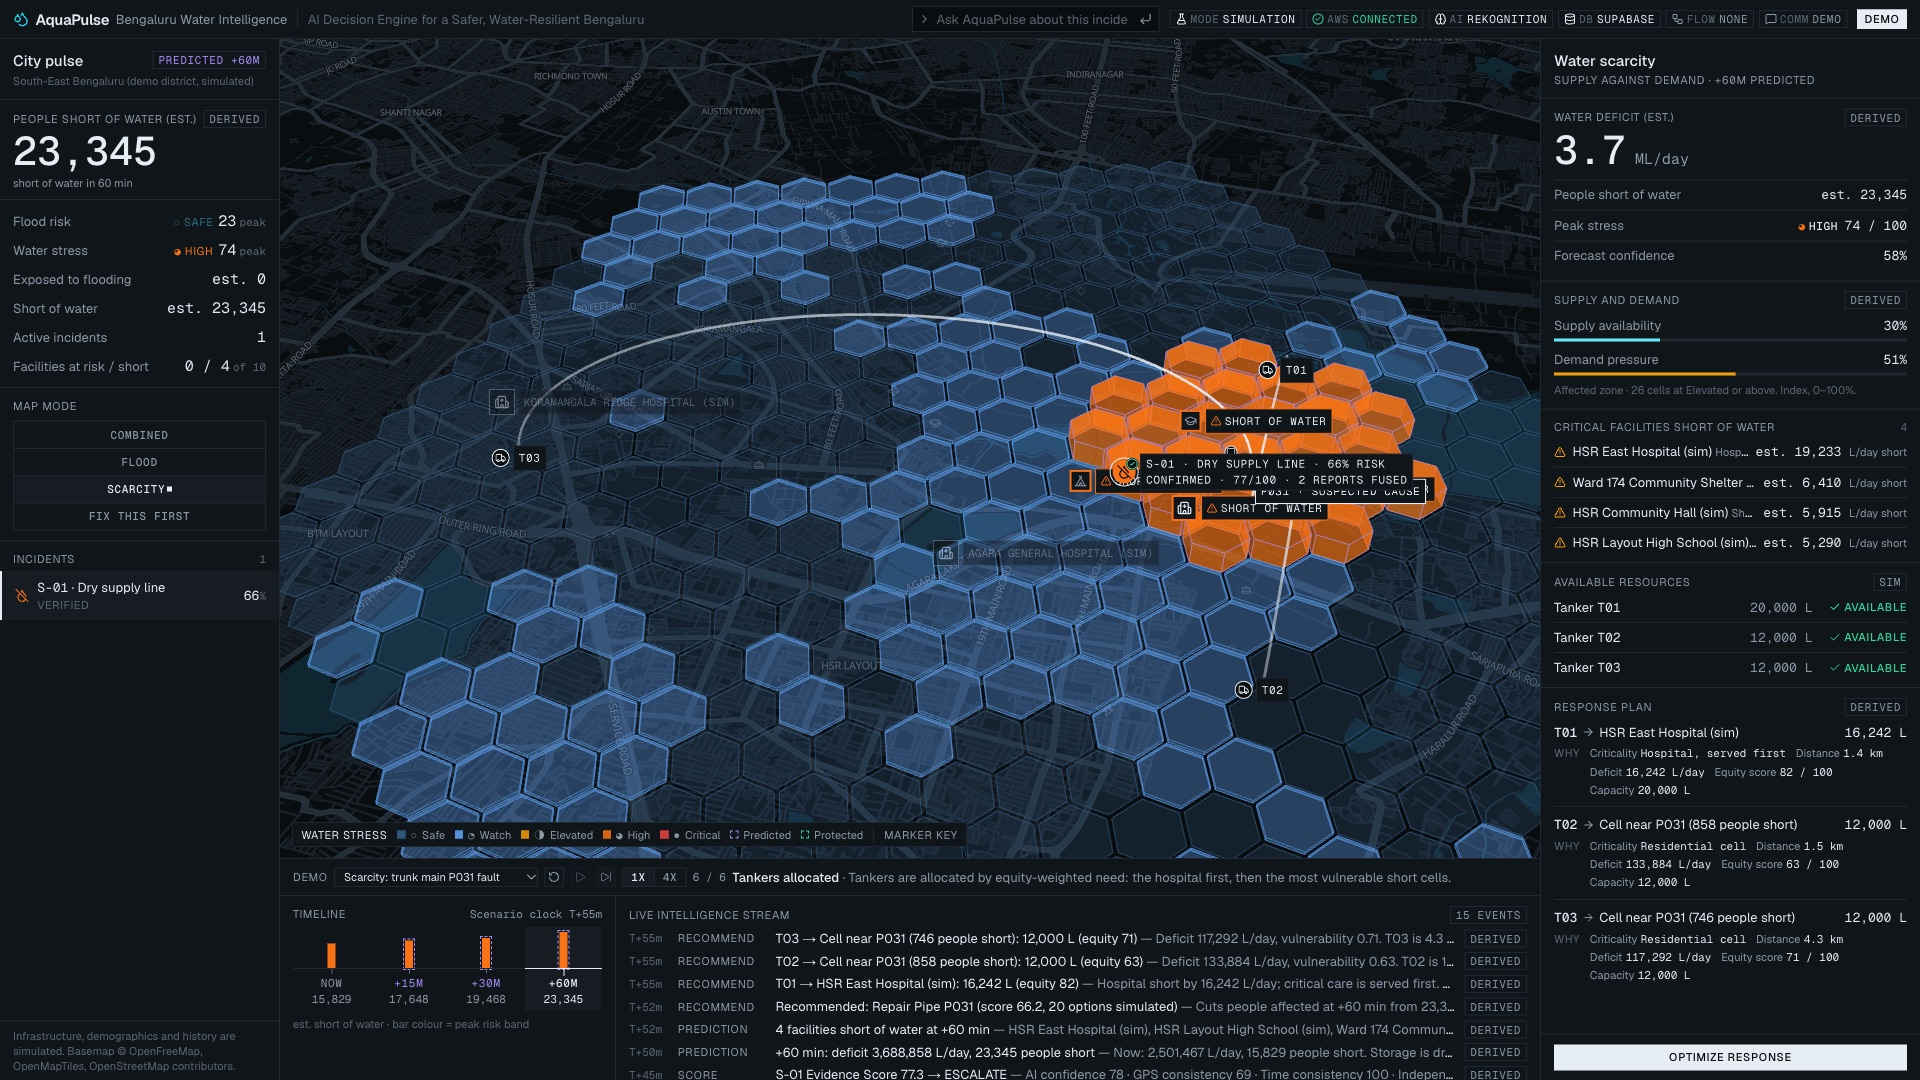
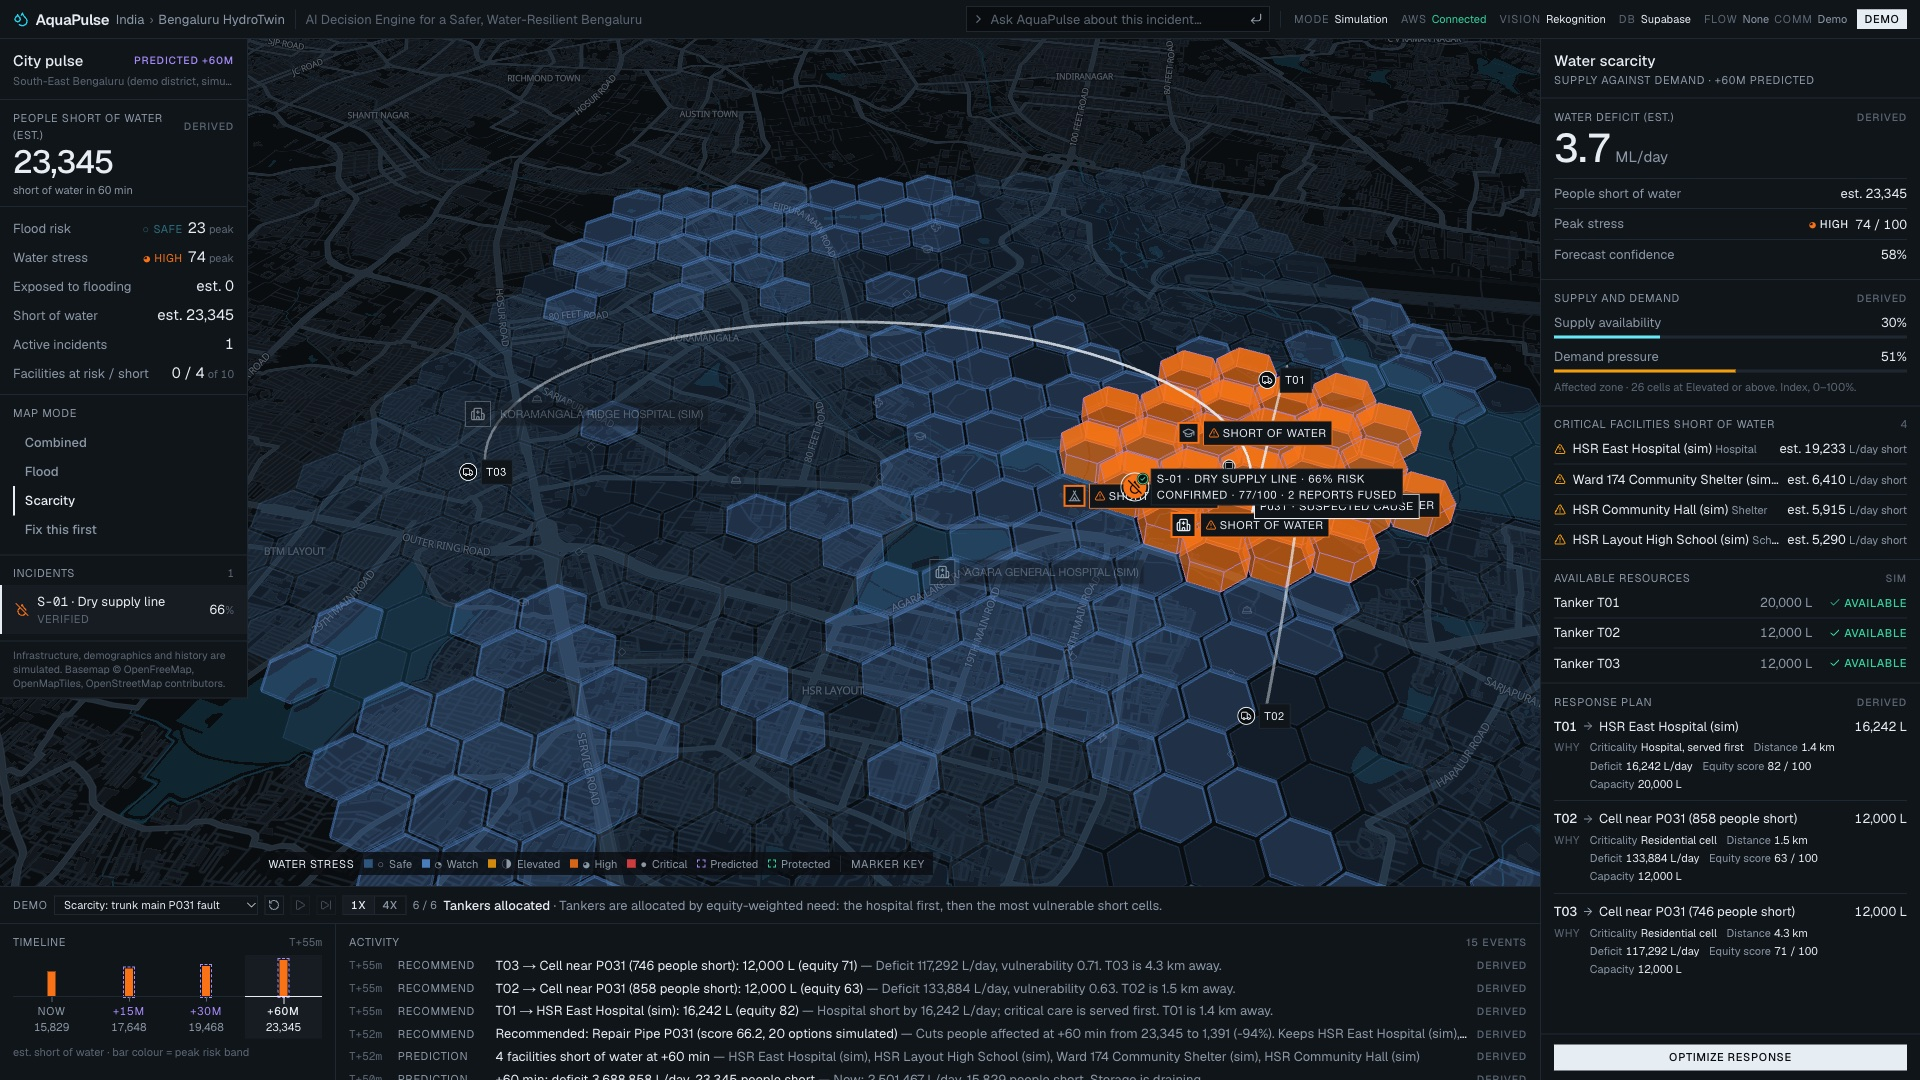
feat: landing page with live national figures and real product captures; command center at /live

diff --git a/components/Landing.tsx b/components/Landing.tsx
@@ -1,0 +1,174 @@
+import Image from "next/image";
+import Link from "next/link";
+import type { NationalSnapshot } from "@/lib/national/store";
+
+const ist = (iso: string | null | undefined) =>
+  iso ? new Intl.DateTimeFormat("en-IN", { timeZone: "Asia/Kolkata", hour: "2-digit", minute: "2-digit", hour12: false, day: "2-digit", month: "short" }).format(new Date(iso)) + " IST" : null;
+
+function Shot({ src, alt, priority = false }: { src: string; alt: string; priority?: boolean }) {
+  return <Image src={`/landing/${src}.jpg`} alt={alt} width={1600} height={900} priority={priority} sizes="(min-width: 1024px) 60vw, 100vw" className="block h-auto w-full border border-hairline" />;
+}
+
+function Chapter({ n, kicker, title, children, shot, alt, flip = false }: { n: string; kicker: string; title: string; children: React.ReactNode; shot: string; alt: string; flip?: boolean }) {
+  return (
+    <section className="border-t border-hairline">
+      <div className={`mx-auto grid max-w-[1400px] gap-8 px-5 py-16 lg:grid-cols-12 lg:gap-12 lg:px-10 lg:py-24`}>
+        <div className={`lg:col-span-4 ${flip ? "lg:order-2" : ""}`}>
+          <p className="mono text-[11px] text-faint">{n}</p>
+          <p className="mt-6 text-[11px] uppercase tracking-[0.12em] text-muted">{kicker}</p>
+          <h2 className="mt-3 text-[28px] font-medium leading-[1.15] tracking-tight text-ink lg:text-[36px]">{title}</h2>
+          <div className="mt-5 space-y-4 text-[15px] leading-relaxed text-muted">{children}</div>
+        </div>
+        <div className={`lg:col-span-8 ${flip ? "lg:order-1" : ""}`}>
+          <Shot src={shot} alt={alt} />
+        </div>
+      </div>
+    </section>
+  );
+}
+
+/** Public landing page. Server-rendered; every figure is read from the live national snapshot or the engine's tested output. */
+export function Landing({ snapshot }: { snapshot: NationalSnapshot | null }) {
+  const s = snapshot?.summary;
+  const updated = ist(snapshot?.source.lastSuccessAt);
+  return (
+    <div className="h-full overflow-y-auto bg-surface text-ink">
+      <header className="mx-auto flex max-w-[1400px] items-center justify-between px-5 py-5 lg:px-10">
+        <p className="text-[15px] font-semibold tracking-tight">AquaPulse</p>
+        <nav className="flex items-center gap-6 text-[13px] text-muted">
+          <a href="#how" className="hidden hover:text-ink sm:block">How it works</a>
+          <a href="#real" className="hidden hover:text-ink sm:block">What is real</a>
+          <Link href="/live" className="text-ink underline underline-offset-4">Open live command center</Link>
+        </nav>
+      </header>
+
+      <section className="mx-auto grid max-w-[1400px] gap-10 px-5 pb-16 pt-8 lg:grid-cols-12 lg:gap-12 lg:px-10 lg:pb-24 lg:pt-16">
+        <div className="lg:col-span-5">
+          <h1 className="text-[44px] font-medium leading-[1.02] tracking-tight lg:text-[72px]">India’s water intelligence layer.</h1>
+          <p className="mt-8 text-[20px] leading-snug text-muted lg:text-[24px]">
+            See where risk is rising.
+            <br />
+            Understand what happens next.
+            <br />
+            Act before impact.
+          </p>
+          <div className="mt-10 flex flex-wrap items-center gap-x-8 gap-y-4 text-[15px]">
+            <Link href="/live" className="bg-ink px-5 py-3 font-medium text-surface hover:bg-white">Open live command center</Link>
+            <a href="#how" className="text-muted underline underline-offset-4 hover:text-ink">Explore how it works</a>
+          </div>
+          {s && (
+            <dl className="mt-14 grid grid-cols-3 gap-6 border-t border-hairline pt-6">
+              <div>
+                <dt className="text-[11px] uppercase tracking-[0.1em] text-faint">Districts under a water-related alert</dt>
+                <dd className="tabular mt-2 text-[32px] font-medium leading-none">{s.districtsUnderWaterAlert}</dd>
+              </div>
+              <div>
+                <dt className="text-[11px] uppercase tracking-[0.1em] text-faint">Flood and river alerts</dt>
+                <dd className="tabular mt-2 text-[32px] font-medium leading-none">{s.floodAlerts}</dd>
+              </div>
+              <div>
+                <dt className="text-[11px] uppercase tracking-[0.1em] text-faint">States with active alerts</dt>
+                <dd className="tabular mt-2 text-[32px] font-medium leading-none">{s.statesWithAlerts}</dd>
+              </div>
+              <p className="col-span-3 text-[11px] leading-snug text-faint">
+                Official alerts from NDMA SACHET{updated ? `, last synced ${updated}` : ""}. Read from the same database as the command center.
+              </p>
+            </dl>
+          )}
+        </div>
+        <div className="lg:col-span-7">
+          <Shot src="01-india" alt="AquaPulse national view: a district map of India with districts under official flood alerts highlighted" priority />
+          <p className="mt-3 text-[11px] text-faint">The live national view. Coloured districts hold an active water-related official alert.</p>
+        </div>
+      </section>
+
+      <section id="how" className="border-t border-hairline">
+        <div className="mx-auto max-w-[1400px] px-5 py-16 lg:px-10 lg:py-24">
+          <p className="max-w-[900px] text-[28px] font-medium leading-[1.2] tracking-tight lg:text-[44px]">
+            Most systems tell you what happened. <span className="text-muted">AquaPulse asks what happens next, who is affected, and which action changes the outcome.</span>
+          </p>
+        </div>
+      </section>
+
+      <Chapter n="01" kicker="National awareness" title="Official alerts, on one district map." shot="02-district" alt="District panel for Muzaffarpur showing an official CWC flood alert, the derived risk score, and inputs that are unknown">
+        <p>AquaPulse ingests India’s national alert feed, NDMA SACHET, which carries warnings issued by IMD offices, the Central Water Commission and state authorities.</p>
+        <p>Each district shows a derived risk score and exactly what it rests on. Inputs that are not connected are shown as unknown, never as zero.</p>
+      </Chapter>
+
+      <Chapter n="02" kicker="Ground truth" title="Reports are evidence, not pins." shot="03-evidence" alt="Evidence panel: three citizen reports fused into one incident with a score history of 52, 64, 68, 76" flip>
+        <p>Citizen reports are fused into one incident and scored on eight named components: independent confirmations, location and time consistency, weather, infrastructure history and more.</p>
+        <p>A photo goes through AWS Lambda to Amazon Rekognition. A single unsupported report stays unverified; in our test it scores 14 out of 100 and nothing escalates.</p>
+      </Chapter>
+
+      <Chapter n="03" kicker="Prediction" title="Thirty minutes ahead, the water reaches the hospital." shot="04-critical-flood" alt="Local HydroTwin of Bengaluru: flood risk cells turning critical with a hospital flagged at risk">
+        <p>Where a local HydroTwin exists, AquaPulse predicts cell by cell: now, +15, +30 and +60 minutes, with confidence that falls as the horizon grows.</p>
+        <p>The first HydroTwin covers south-east Bengaluru. Its city data is a labelled simulation, so the scenario is reproducible.</p>
+      </Chapter>
+
+      <Chapter n="04" kicker="Decision" title="3,822 people exposed. Or 190." shot="05-intervention" alt="Intervention simulator ranking three action bundles; the winner cuts estimated exposure from 3,822 to 190 and protects the hospital" flip>
+        <p>Twenty feasible action bundles are simulated and ranked on people protected, critical facilities, equity, cost and response time.</p>
+        <p>Clearing drain D104 and deploying one pump cuts estimated exposure by 95% and moves the hospital from at risk to protected. The map changes as you compare options, and the ranking shows its arithmetic.</p>
+      </Chapter>
+
+      <Chapter n="05" kicker="Both sides of water" title="Too much, and too little." shot="06-scarcity" alt="Scarcity view: a supply deficit of 3.7 megalitres per day with tanker routes allocated to a hospital first">
+        <p>The same engine handles shortage. A trunk main fails in a heat spell; the deficit grows to 3.7 megalitres a day; tankers are allocated by equity-weighted need, hospital first.</p>
+      </Chapter>
+
+      <Chapter n="06" kicker="Learning" title="What should the city fix for good?" shot="07-fix-this-first" alt="Fix This First: infrastructure ranked by repeat failure, with drain D104 as priority one" flip>
+        <p>Every intervention is checked against its prediction, and every failure is added to the asset’s memory. The result is a ranked list of what to repair permanently, not just today.</p>
+      </Chapter>
+
+      <section id="real" className="border-t border-hairline">
+        <div className="mx-auto grid max-w-[1400px] gap-10 px-5 py-16 lg:grid-cols-12 lg:px-10 lg:py-24">
+          <div className="lg:col-span-4">
+            <p className="text-[11px] uppercase tracking-[0.12em] text-muted">What is real</p>
+            <h2 className="mt-3 text-[28px] font-medium leading-[1.15] tracking-tight lg:text-[36px]">We label everything.</h2>
+          </div>
+          <div className="grid gap-10 text-[15px] leading-relaxed sm:grid-cols-3 lg:col-span-8">
+            <div>
+              <h3 className="border-b border-hairline pb-2 text-[11px] uppercase tracking-[0.12em] text-ink">Live</h3>
+              <ul className="mt-3 space-y-2 text-muted">
+                <li>Official alerts: NDMA SACHET</li>
+                <li>Photo analysis: AWS Lambda and Amazon Rekognition, logged in CloudWatch</li>
+                <li>Storage: Supabase Postgres with PostGIS</li>
+                <li>Inbound reports reach the dashboard within seconds</li>
+              </ul>
+            </div>
+            <div>
+              <h3 className="border-b border-hairline pb-2 text-[11px] uppercase tracking-[0.12em] text-ink">Simulated, and labelled</h3>
+              <ul className="mt-3 space-y-2 text-muted">
+                <li>Bengaluru infrastructure, populations and failure history</li>
+                <li>The flood, scarcity and false-report scenarios</li>
+                <li>Observed intervention outcomes</li>
+              </ul>
+            </div>
+            <div>
+              <h3 className="border-b border-hairline pb-2 text-[11px] uppercase tracking-[0.12em] text-ink">Not connected yet</h3>
+              <ul className="mt-3 space-y-2 text-muted">
+                <li>Rainfall, river gauge and heat feeds</li>
+                <li>WhatsApp through Twilio, and n8n orchestration</li>
+                <li>Amazon Bedrock: answers are grounded templates, not a language model</li>
+              </ul>
+            </div>
+          </div>
+        </div>
+      </section>
+
+      <section className="border-t border-hairline">
+        <div className="mx-auto flex max-w-[1400px] flex-col items-start gap-8 px-5 py-20 lg:flex-row lg:items-end lg:justify-between lg:px-10 lg:py-28">
+          <p className="max-w-[760px] text-[32px] font-medium leading-[1.1] tracking-tight lg:text-[52px]">National observation. Local intelligence. Decisions you can check.</p>
+          <div className="flex flex-col gap-3 text-[15px]">
+            <Link href="/live" className="bg-ink px-5 py-3 text-center font-medium text-surface hover:bg-white">Open live command center</Link>
+            <Link href="/?demo=1&scenario=flood" className="text-muted underline underline-offset-4 hover:text-ink">Play the Bengaluru flood scenario</Link>
+          </div>
+        </div>
+      </section>
+
+      <footer className="border-t border-hairline">
+        <p className="mx-auto max-w-[1400px] px-5 py-8 text-[11px] leading-relaxed text-faint lg:px-10">
+          Alerts: NDMA SACHET (Common Alerting Protocol). Boundaries: geoBoundaries (ODbL 1.0, CC BY 2.5 IN). Basemap: OpenFreeMap, OpenMapTiles, OpenStreetMap contributors. AquaPulse is a hackathon project and is not affiliated with or endorsed by NDMA, IMD, CWC or any government body. The AquaPulse water risk score is our own derived estimate.
+        </p>
+      </footer>
+    </div>
+  );
+}

diff --git a/app/page.tsx b/app/page.tsx
@@ -1,5 +1,23 @@
+import { Suspense } from "react";
+import { connection } from "next/server";
 import { App } from "@/components/App";
+import { Landing } from "@/components/Landing";
+import { nationalSnapshot } from "@/lib/national/store";
 
-export default function Home() {
-  return <App />;
+// `/` is the landing page. Links that carry ?demo, ?scenario or ?view keep opening the command center directly,
+// so existing demo URLs still work. The live command center itself is at /live.
+async function Entry({ searchParams }: { searchParams: PageProps<"/">["searchParams"] }) {
+  await connection(); // request-time: depends on the query string and on live national figures
+  const q = await searchParams;
+  if (q.demo || q.scenario || q.view) return <App />;
+  const snapshot = await nationalSnapshot().catch(() => null);
+  return <Landing snapshot={snapshot} />;
+}
+
+export default function Home({ searchParams }: PageProps<"/">) {
+  return (
+    <Suspense fallback={<div className="h-full bg-surface" />}>
+      <Entry searchParams={searchParams} />
+    </Suspense>
+  );
 }

diff --git a/components/Header.tsx b/components/Header.tsx
@@ -221,7 +221,7 @@ export function Header({
         <h1 className="text-[15px] font-semibold tracking-tight text-ink">AquaPulse</h1>
         <p className="hidden items-center gap-1.5 whitespace-nowrap text-[13px] text-muted lg:flex">
           {/* The local HydroTwin sits under the national view: India › Karnataka › Bengaluru. */}
-          <button type="button" className="hover:text-ink" onClick={() => window.location.assign("/")}>
+          <button type="button" className="hover:text-ink" onClick={() => window.location.assign("/live")}>
             India
           </button>
           <span className="text-faint">›</span>

diff --git a/app/layout.tsx b/app/layout.tsx
@@ -14,7 +14,7 @@ const geistMono = Geist_Mono({
 
 export const metadata: Metadata = {
   title: "AquaPulse",
-  description: "AI Decision Engine for a Safer, Water-Resilient Bengaluru",
+  description: "India’s water intelligence layer: official alerts, citizen evidence and a local decision model.",
 };
 
 export default function RootLayout({ children }: LayoutProps<"/">) {

diff --git a/app/live/page.tsx b/app/live/page.tsx
@@ -1,0 +1,7 @@
+import { App } from "@/components/App";
+
+export const metadata = { title: "AquaPulse · Live command center" };
+
+export default function Live() {
+  return <App />;
+}

diff --git a/docs/LANDING_PAGE.md b/docs/LANDING_PAGE.md
@@ -1,0 +1,12 @@
+# Landing page
+
+`/` (when the URL carries no `demo`, `scenario` or `view` parameter). The command center is at `/live`; demo links such as `/?demo=1&scenario=flood` are unchanged.
+
+- **Server-rendered** (`components/Landing.tsx`): no map runtime is loaded. Local production build: page load about 1 s; no console errors; no horizontal scroll at 390 px wide.
+- **Hero figures are live:** districts under a water-related alert, flood and river alerts, and states with active alerts, read at request time from the same snapshot as the command center, with the last sync time. If the database is unreachable the figures are omitted.
+- **Screenshots are real captures** of the public site at 1920x1080 (`public/landing/`, 1600 px JPEG, 2.3 MB in total, lazy-loaded below the hero).
+- **Story:** national awareness → ground truth → prediction → decision (3,822 → 190) → both sides of water → learning → what is real → call to action.
+- **"What is real"** lists live, simulated-and-labelled, and not-connected items in three columns. It must be edited whenever that changes.
+- No gradients, no stock imagery, no generated mock-ups.
+
+Not done: a live map in the hero (a screenshot is used), animation, and a measured LCP on the public host.

diff --git a/docs/STATUS.md b/docs/STATUS.md
@@ -34,6 +34,8 @@ Public site: https://aquapulse-liard.vercel.app/?demo=1 (Vercel production alias
 | Demo routes after the change | PASS (local build) | `/?demo=1`: flood 14/14 with 3,822 → 190 and PROTECTED, scarcity 6/6, false report UNVERIFIED · 14/100 |
 | Scheduler | PARTIAL | No cron: the server refreshes after a read when the last sync is older than 10 minutes. With no visitors nothing syncs. A forced sync route exists behind the server secret |
 | IMD JSON APIs, MOSDAC, CWC station feed | BLOCKED / deferred | See `docs/NATIONAL_DATA_SOURCES.md` |
+| Public national view | PASS | 2026-10-11 01:52 IST: public site opened on India at both sizes with zero console errors; the public server refreshed the feed by itself (last sync moved from 01:41 to 01:51 IST); `/?demo=1` flood still 14/14 with 3,822 → 190 and PROTECTED |
+| Landing page | PASS (local build) | `/` renders in about 1 s with live figures; CTA opens `/live`; demo links still open the command center; no horizontal scroll at 390 px |
 
 ## Demo / simulated (by design, labelled in the UI)
 

diff --git a/README.md b/README.md
@@ -5,7 +5,7 @@ AquaPulse is a water-risk intelligence system for India that combines official a
 - **National:** current official alerts (NDMA SACHET: IMD, CWC, state authorities) on a district map of India, with an explainable derived risk score.
 - **Local:** a HydroTwin of south-east Bengaluru that predicts flood and scarcity, ranks interventions and learns which infrastructure to fix first. Its city data is a labelled simulation.
 
-**Live:** https://aquapulse-liard.vercel.app (India, current conditions) · local demo `/?demo=1` · scenarios: `&scenario=flood`, `scarcity`, `false-report` · shortcuts: Space play/pause, → next, R reset.
+**Live:** https://aquapulse-liard.vercel.app (landing) · command center `/live` (India, current conditions) · local demo `/?demo=1` · scenarios: `&scenario=flood`, `scarcity`, `false-report` · shortcuts: Space play/pause, → next, R reset.
 
 It answers what is happening, what happens next, why, who gets hurt, what to do, what that changes, whether it worked, and what the city should permanently fix.
 

diff --git a/docs/DEMO.md b/docs/DEMO.md
@@ -1,6 +1,6 @@
 # Demo
 
-**Public:** https://aquapulse-liard.vercel.app/?demo=1 · direct links `&scenario=flood`, `scarcity`, `false-report`
+**Public:** landing https://aquapulse-liard.vercel.app · live India view `/live` · demo https://aquapulse-liard.vercel.app/?demo=1 · direct links `&scenario=flood`, `scarcity`, `false-report`
 **Local fallback:** `npm run build && npm run start` → http://localhost:3100/?demo=1 (needs no network, AWS or database)
 
 Controls: Space play/pause · → next event · R reset (click the map first so no control has focus). Use a 1440x900 or 1920x1080 window.
